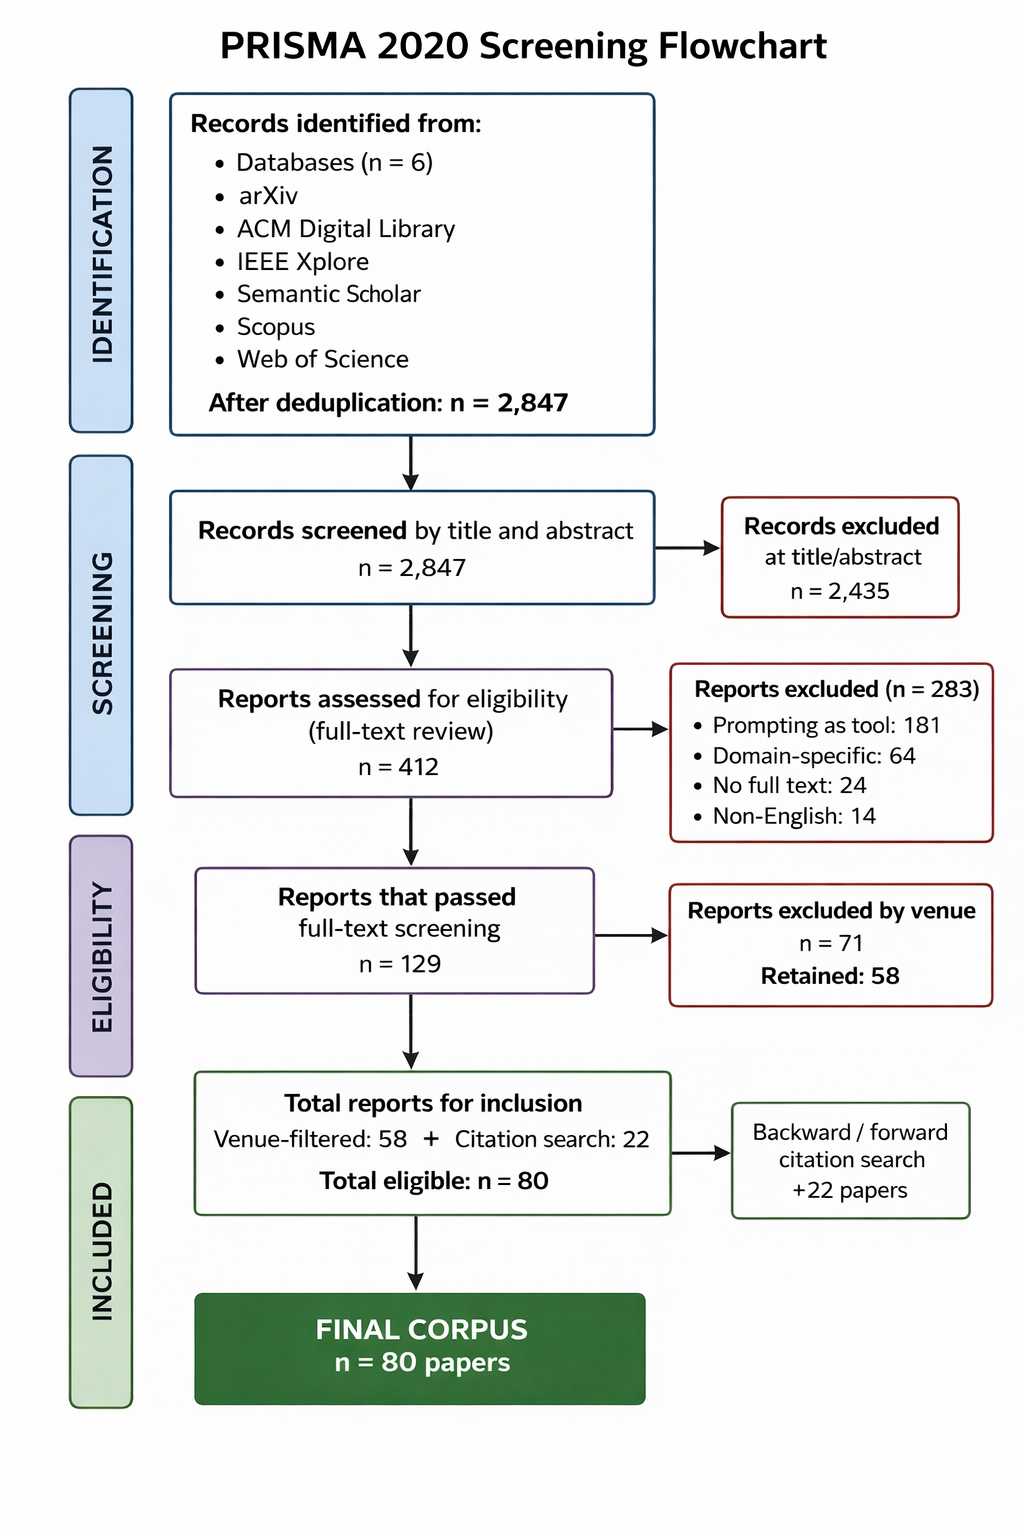
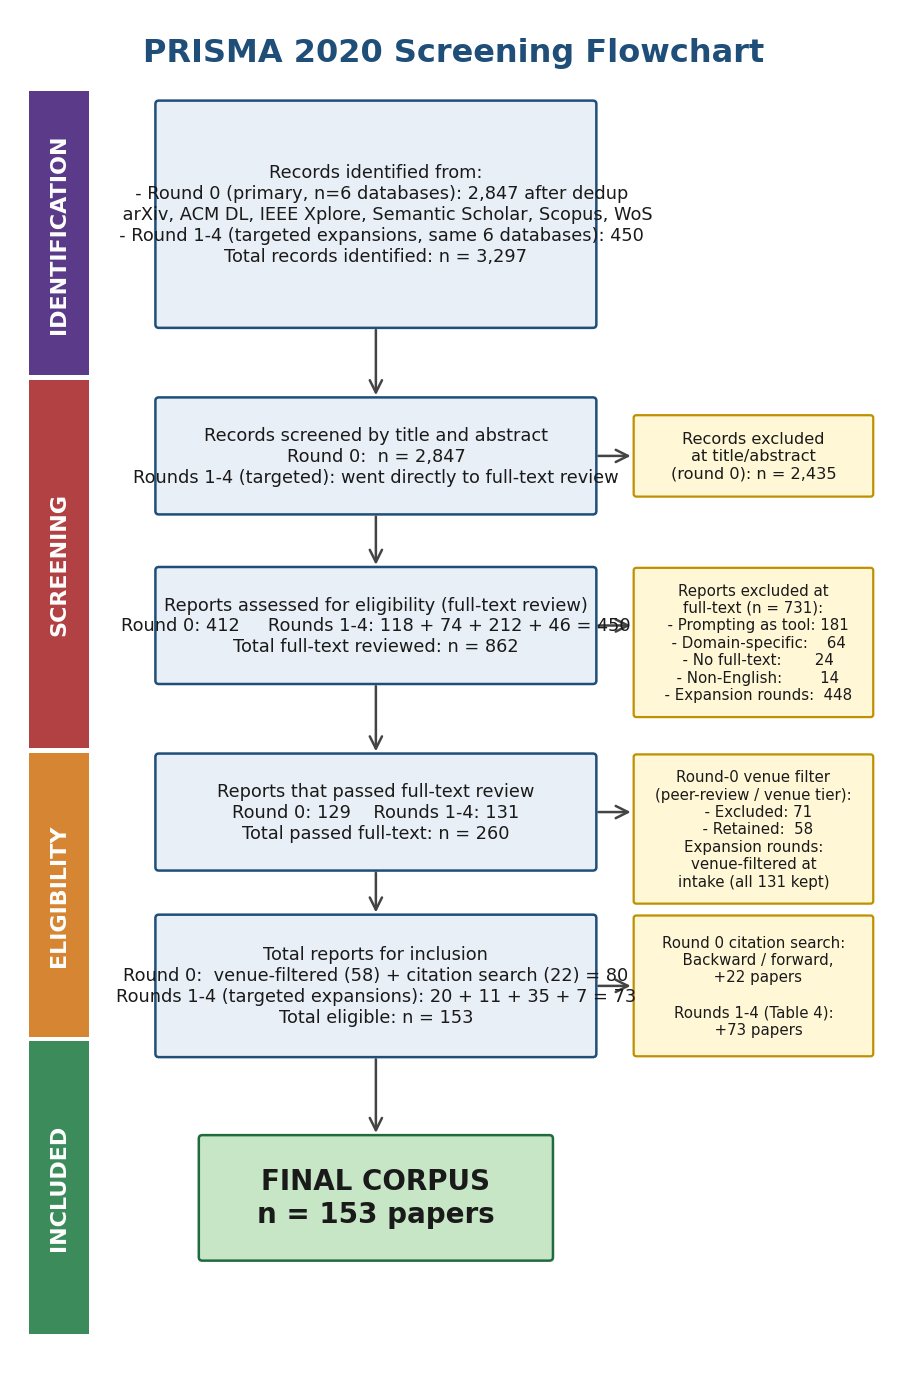
Redraw PRISMA flowchart for full 153-paper corpus (all 5 rounds)
Replace prisma_flowchart.png with a regenerated PNG that has the same
structure as the prior diagram (vertical layout, color-coded
IDENTIFICATION / SCREENING / ELIGIBILITY / INCLUDED phase bands, main
column + side-annotation boxes, green final-corpus banner) but with
numbers covering all five rounds of the PRISMA review (primary search
+ 4 targeted expansion rounds), matching Table 4 in main.tex.

Numbers shown in the new figure (all consistent with
tab:expansion_rounds):

  Identification: 3,297 records identified
    - Round 0 (primary, 6 databases): 2,847 after dedup
    - Rounds 1-4 (targeted expansions, same 6 databases): 450
  Title/abstract screening (round 0 only): 2,435 excluded; 412 to FT
    Rounds 1-4 went straight to full-text review by design
  Full-text reviewed (all rounds): 862
  Excluded at full-text: 731
    - Round 0 reasons: prompting-as-tool 181, domain-specific 64,
      no full-text 24, non-English 14
    - Rounds 1-4 (targeted, narrower exclusion mix): 448
  Round 0 venue filter: 71 excluded, 58 retained
  Citation-search supplement (round 0): +22 -> round-0 corpus = 80
  Expansion-round additions: 20 + 11 + 35 + 7 = 73
  FINAL CORPUS: n = 153 papers

Generator script (_make_prisma.py) is committed alongside the PNG so
the figure can be regenerated if the corpus or expansion counts ever
change. The script uses matplotlib only (no graphviz dependency).

Side benefit: PDF size shrinks from ~2.73 MB to ~1.14 MB because the
[…]

diff --git a/_make_prisma.py b/_make_prisma.py
@@ -1,0 +1,202 @@
+"""
+Generate PRISMA 2020 flowchart PNG matching the existing structure but with
+numbers covering all five rounds (primary + 4 expansions -> 153 final papers).
+
+Reproduces:
+  prisma_flowchart.png
+
+The numbers below are pulled from Table 4 (tab:expansion_rounds) in main.tex:
+  Round 0:  2,847 identified ->   412 screened (FT) ->   354 excluded ->  80 added
+  Round 1:    118 identified ->   118 screened (FT) ->    98 excluded ->  20 added
+  Round 2:     74 identified ->    74 screened (FT) ->    63 excluded ->  11 added
+  Round 3:    212 identified ->   212 screened (FT) ->   177 excluded ->  35 added
+  Round 4:     46 identified ->    46 screened (FT) ->    39 excluded ->   7 added
+  Total:    3,297 identified ->   862 screened (FT) ->   731 excluded -> 153 corpus
+
+  Round 0 title/abstract screening: 2,847 -> 2,435 excluded -> 412 to FT review
+  Round 0 venue filter: 129 passed FT -> 71 venue-excluded, 58 retained
+  Round 0 citation search: +22 -> 80 (round 0 corpus)
+  Then expansions: +20 +11 +35 +7 = 73 -> 153 final corpus
+"""
+
+import matplotlib
+matplotlib.use("Agg")
+import matplotlib.pyplot as plt
+import matplotlib.patches as patches
+from matplotlib.patches import FancyArrowPatch, FancyBboxPatch
+import os
+
+# ---- canvas ----------------------------------------------------------------
+fig_w, fig_h = 5.6, 8.7  # inches
+fig, ax = plt.subplots(figsize=(fig_w, fig_h), dpi=200)
+ax.set_xlim(0, 100)
+ax.set_ylim(0, 158)
+ax.set_aspect("auto")
+ax.axis("off")
+
+# ---- color palette ---------------------------------------------------------
+COL_TITLE      = "#1f4e79"
+COL_BOX        = "#e9eff7"
+COL_BOX_EDGE   = "#1f4e79"
+COL_SIDE       = "#fff7d6"
+COL_SIDE_EDGE  = "#bf9000"
+COL_FINAL      = "#c6e6c6"
+COL_FINAL_EDGE = "#1f6b3f"
+
+PHASE_COLORS = {
+    "IDENTIFICATION": "#5b3a8a",
+    "SCREENING":      "#b14143",
+    "ELIGIBILITY":    "#d68633",
+    "INCLUDED":       "#3b8c5a",
+}
+
+# ---- title -----------------------------------------------------------------
+ax.text(50, 154, "PRISMA 2020 Screening Flowchart",
+        ha="center", va="center", fontsize=11.5, weight="bold",
+        color=COL_TITLE)
+
+# ---- helpers ---------------------------------------------------------------
+def main_box(x, y, w, h, text, fontsize=6.6, color=COL_BOX, edge=COL_BOX_EDGE, weight="normal"):
+    rect = FancyBboxPatch((x, y), w, h, boxstyle="round,pad=0.4",
+                          linewidth=0.9, edgecolor=edge, facecolor=color)
+    ax.add_patch(rect)
+    ax.text(x + w/2, y + h/2, text, ha="center", va="center",
+            fontsize=fontsize, weight=weight, color="#1a1a1a")
+
+def side_box(x, y, w, h, text, fontsize=6.0):
+    rect = FancyBboxPatch((x, y), w, h, boxstyle="round,pad=0.3",
+                          linewidth=0.8, edgecolor=COL_SIDE_EDGE, facecolor=COL_SIDE)
+    ax.add_patch(rect)
+    ax.text(x + w/2, y + h/2, text, ha="center", va="center",
+            fontsize=fontsize, color="#1a1a1a")
+
+def arrow_down(x_from, y_from, x_to, y_to):
+    arr = FancyArrowPatch((x_from, y_from), (x_to, y_to),
+                          arrowstyle="->", mutation_scale=11,
+                          linewidth=0.9, color="#444444")
+    ax.add_patch(arr)
+
+def arrow_right(x_from, y_from, x_to, y_to):
+    arr = FancyArrowPatch((x_from, y_from), (x_to, y_to),
+                          arrowstyle="->", mutation_scale=11,
+                          linewidth=0.9, color="#444444")
+    ax.add_patch(arr)
+
+def phase_band(y_top, y_bot, label):
+    color = PHASE_COLORS[label]
+    rect = patches.Rectangle((1, y_bot), 7, y_top - y_bot,
+                             linewidth=0, facecolor=color)
+    ax.add_patch(rect)
+    ax.text(4.5, (y_top + y_bot) / 2, label,
+            ha="center", va="center", fontsize=8.0, color="white",
+            weight="bold", rotation=90)
+
+# ---- layout coords (column anchors) ----------------------------------------
+COL_MAIN_X   = 16
+COL_MAIN_W   = 50
+COL_SIDE_X   = 71
+COL_SIDE_W   = 27
+
+# ---- phase bands -----------------------------------------------------------
+phase_band(149.5, 116.0, "IDENTIFICATION")
+phase_band(115.5,  72.0, "SCREENING")
+phase_band( 71.5,  38.0, "ELIGIBILITY")
+phase_band( 37.5,   3.0, "INCLUDED")
+
+# =========================================================================
+# IDENTIFICATION
+# =========================================================================
+main_box(COL_MAIN_X, 122, COL_MAIN_W, 26,
+         ("Records identified from:\n"
+          "  - Round 0 (primary, n=6 databases): 2,847 after dedup\n"
+          "    arXiv, ACM DL, IEEE Xplore, Semantic Scholar, Scopus, WoS\n"
+          "  - Round 1-4 (targeted expansions, same 6 databases): 450\n"
+          "Total records identified: n = 3,297"),
+         fontsize=6.4)
+
+# =========================================================================
+# SCREENING
+# =========================================================================
+# Title/abstract screening (round 0 only)
+main_box(COL_MAIN_X, 100, COL_MAIN_W, 13,
+         "Records screened by title and abstract\n"
+         "Round 0:  n = 2,847\n"
+         "Rounds 1-4 (targeted): went directly to full-text review",
+         fontsize=6.4)
+arrow_down(COL_MAIN_X + COL_MAIN_W/2, 122, COL_MAIN_X + COL_MAIN_W/2, 113)
+
+side_box(COL_SIDE_X, 102, COL_SIDE_W, 9,
+         "Records excluded\nat title/abstract\n(round 0): n = 2,435",
+         fontsize=5.8)
+arrow_right(COL_MAIN_X + COL_MAIN_W, 106.5, COL_SIDE_X, 106.5)
+
+# Full-text screening (combined all rounds)
+main_box(COL_MAIN_X, 80, COL_MAIN_W, 13,
+         "Reports assessed for eligibility (full-text review)\n"
+         "Round 0: 412     Rounds 1-4: 118 + 74 + 212 + 46 = 450\n"
+         "Total full-text reviewed: n = 862",
+         fontsize=6.4)
+arrow_down(COL_MAIN_X + COL_MAIN_W/2, 100, COL_MAIN_X + COL_MAIN_W/2, 93)
+
+# =========================================================================
+# ELIGIBILITY
+# =========================================================================
+side_box(COL_SIDE_X, 76, COL_SIDE_W, 17,
+         "Reports excluded at\nfull-text (n = 731):\n"
+         "  - Prompting as tool: 181\n"
+         "  - Domain-specific:    64\n"
+         "  - No full-text:       24\n"
+         "  - Non-English:        14\n"
+         "  - Expansion rounds:  448",
+         fontsize=5.4)
+arrow_right(COL_MAIN_X + COL_MAIN_W, 86.5, COL_SIDE_X, 86.5)
+
+# Venue filter on round-0 papers
+main_box(COL_MAIN_X, 58, COL_MAIN_W, 13,
+         "Reports that passed full-text review\n"
+         "Round 0: 129    Rounds 1-4: 131\n"
+         "Total passed full-text: n = 260",
+         fontsize=6.4)
+arrow_down(COL_MAIN_X + COL_MAIN_W/2, 80, COL_MAIN_X + COL_MAIN_W/2, 71)
+
+side_box(COL_SIDE_X, 54, COL_SIDE_W, 17,
+         "Round-0 venue filter\n(peer-review / venue tier):\n"
+         "  - Excluded: 71\n"
+         "  - Retained:  58\n"
+         "Expansion rounds:\n"
+         "venue-filtered at\nintake (all 131 kept)",
+         fontsize=5.4)
+arrow_right(COL_MAIN_X + COL_MAIN_W, 64.5, COL_SIDE_X, 64.5)
+
+# =========================================================================
+# INCLUDED
+# =========================================================================
+# Aggregated inclusion box
+main_box(COL_MAIN_X, 36, COL_MAIN_W, 16,
+         "Total reports for inclusion\n"
+         "Round 0:  venue-filtered (58) + citation search (22) = 80\n"
+         "Rounds 1-4 (targeted expansions): 20 + 11 + 35 + 7 = 73\n"
+         "Total eligible: n = 153",
+         fontsize=6.4)
+arrow_down(COL_MAIN_X + COL_MAIN_W/2, 58, COL_MAIN_X + COL_MAIN_W/2, 52)
+
+side_box(COL_SIDE_X, 36, COL_SIDE_W, 16,
+         "Round 0 citation search:\n"
+         "  Backward / forward,\n"
+         "  +22 papers\n\n"
+         "Rounds 1-4 (Table 4):\n"
+         "  +73 papers",
+         fontsize=5.4)
+arrow_right(COL_MAIN_X + COL_MAIN_W, 44, COL_SIDE_X, 44)
+
+# Final corpus box
+main_box(COL_MAIN_X + 5, 12, COL_MAIN_W - 10, 14,
+         "FINAL CORPUS\nn = 153 papers",
+         fontsize=10.0, color=COL_FINAL, edge=COL_FINAL_EDGE, weight="bold")
+arrow_down(COL_MAIN_X + COL_MAIN_W/2, 36, COL_MAIN_X + COL_MAIN_W/2, 26)
+
+# ---- save ------------------------------------------------------------------
+out_path = os.path.abspath("prisma_flowchart.png")
+plt.savefig(out_path, dpi=200, bbox_inches="tight", facecolor="white")
+print(f"wrote {out_path}")
+print(f"  size: {os.path.getsize(out_path)} bytes")
